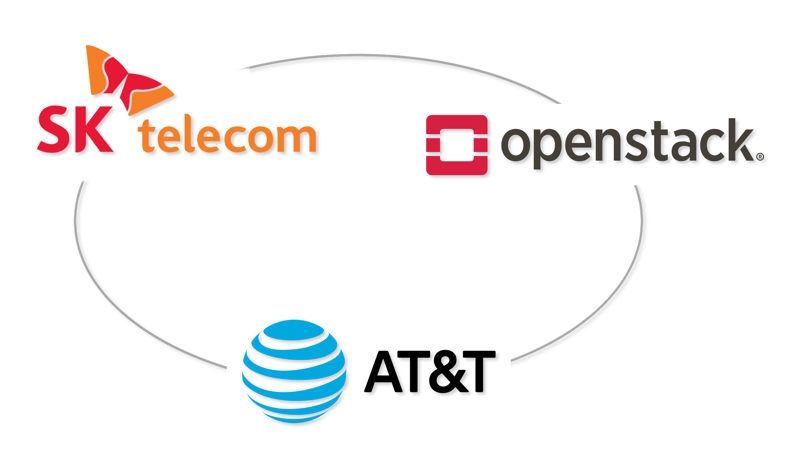
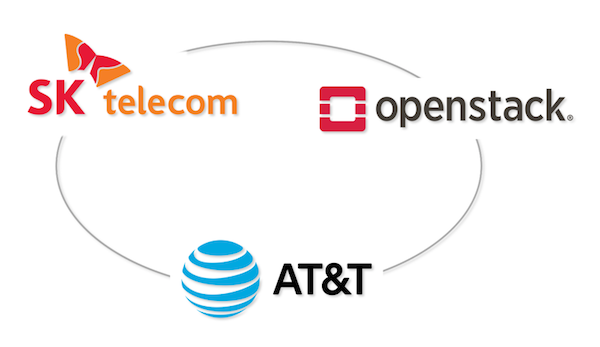
image size change + english blog link add

diff --git a/_posts/2018-05-23-AirshipIntro.md b/_posts/2018-05-23-AirshipIntro.md
@@ -1,10 +1,12 @@
 ---
-title: Open Infrastructure Project "Airship" Introduction 
+title: Open Infrastructure Project "Airship"
 author: 안재석
 author-email: jay.ahn@sk.com
 description: SKT, AT&T-오픈스택 재단과 함께 손쉬운 클라우드 구축을 가속화 할 새로운 오픈 인프라 프로젝트 Airship 출범
 ---
-# Open Infrastructure Project, Airship 런칭 
+# Open Infrastructure Project, Airship
+For English Version, please visit [SKT Global Blog]. 
+ 
 SKT는 AT&T등과 함께 새로운 Open Infrastructure Project인 "[Airship]"를 런칭하였습니다. 그리고, 앞으로 AT&T 및 다른 참여회사들, OpenStack Foundation과 협력하여 OpenStack의 Top-Level Project로 만들 수 있도록 노력할 계획입니다. 이번 블로그에서는 Airship 전체 프로젝트에 대해서 간략한 소개를 드리고, Airship에 포함된 여러개의 Sub-Project들 중에서 SKT가 참여하는 부분에 대해서 말씀드리도록 하겠습니다. 
 
 ![Companies participating Airship project]({{ site.baseurl }}{{ post.url }}/assets/img/airship/airship_companies_v2.png)
@@ -47,3 +49,4 @@ Airship과 관련된 내용은 프로젝트 홈페이지 (http://www.airshipit.o
 [OpenStack-Helm]: https://github.com/openstack/openstack-helm
 [OpenStack]: https://www.openstack.org/ 
 [Kubernetes]: https://kubernetes.io/
+[SKT Global Blog]: https://www.globalskt.com/home/info/2313
